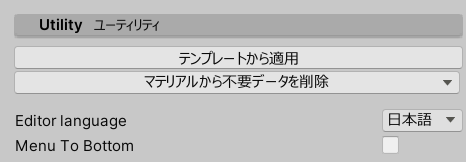
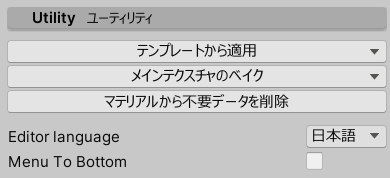
UnlitWF 2.4.0 を追加

diff --git a/docs/unlitwf/Manual-Common.md b/docs/unlitwf/Manual-Common.md
@@ -31,3 +31,18 @@
 - `Enable GPU Instancing` を有効にすると、描画負荷が低減される場合があります。Standardシェーダの同名項目と同じ機能です。
 - `Double Sided Global Illumination` を有効にすると、ライトベイク時に両面メッシュとして扱われます。Standardシェーダの同名項目と同じ機能です。
 - `VRC Fallback` では、VRChat のアバターシェーダフォールバック機能によって変換される先のシェーダを指定できます。
+
+
+## ユーティリティ {#Utility}
+
+インスペクタの最下部にあります。インスペクタの日本語化もここから行います。
+
+![Image](./img/common-man-01.png)
+
+- `テンプレートから適用` は、現在のマテリアルにテンプレートの設定を適用します。必要に応じてシェーダとバリアントが変更されることもあります。
+  - 新しくテンプレートを作成する場合は `テンプレートとして保存` を選んでください。場所は Assets フォルダ配下の任意の場所に保存できます。保存されたものはリストアップされます。
+- `メインテクスチャのベイク` は、現在のマテリアルに設定されている色変更関連の設定をメインテクスチャに反映した新しいテクスチャを作成することができます。
+  - 色変更関連の設定がない場合(ベイクが不要な場合)は **何も動作しません。**
+  - ベイクすることで見た目が変化してしまう場合はプロンプトが表示されます。
+- `マテリアルの不要データを削除` を押すと、現在のマテリアルにある未使用の値をクリアします。
+

diff --git a/docs/unlitwf/Manual-UnToon.md b/docs/unlitwf/Manual-UnToon.md
@@ -172,7 +172,8 @@ ToonShade の詳細を ToonShade Advance から設定できます。
 ![Image](./img/untoon-man-17.png)
 
 - `混合タイプ` を `加算・減算`, `加算`, `アルファ合成`, `乗算` から選ぶことができます。
-- `マスクテクスチャ` には、リムライトを無効にする範囲を黒、有効にする範囲を白にしたマスクテクスチャを指定します。<br />フルカラーテクスチャが利用可能です。リムライト色を指定することもできます。<br />MainTexをリムライトのマスクに流用する場合 `APPLY` のボタンを押すことでも設定することができます。
+- `ベースカラーをリムライト色に混合` をチェックすると、ベースカラー(色変更までを反映した基本色)をリムライト色に乗算することができます。
+- `マスクテクスチャ` には、リムライトを無効にする範囲を黒、有効にする範囲を白にしたマスクテクスチャを指定します。<br />フルカラーテクスチャが利用可能です。リムライト色を指定することもできます。
 - リムライトの太さは `幅` にて調整できます。方向によって変化させるときはさらに `幅(上)` `幅(横)` `幅(下)` で変化させることもできます。
 
 ![Image](./img/untoon-man-18.png)

diff --git a/docs/unlitwf/CHANGELOG.md b/docs/unlitwf/CHANGELOG.md
@@ -3,6 +3,20 @@ toc_min_heading_level: 2
 toc_max_heading_level: 2
 ---
 
+## 2024/10/14 (2.4.0)
+https://github.com/whiteflare/Unlit_WF_ShaderSuite/releases/tag/UnlitWF_Shader_20241014
+
+### Added
+- GUI
+  - メインテクスチャに色調整などをベイクするボタンを、インスペクタ最下部に追加しました。
+
+### Changed
+- Shader
+  - Metallic の GSAA を、ToggleからRangeに変更しました。GSAAの適用具合を調整することができるようになりました。
+  - リムライトでメインカラーを混合するToggleを追加しました。
+
+----
+
 # Change Log
 
 ## 2024-09-07 (2.3.0)
